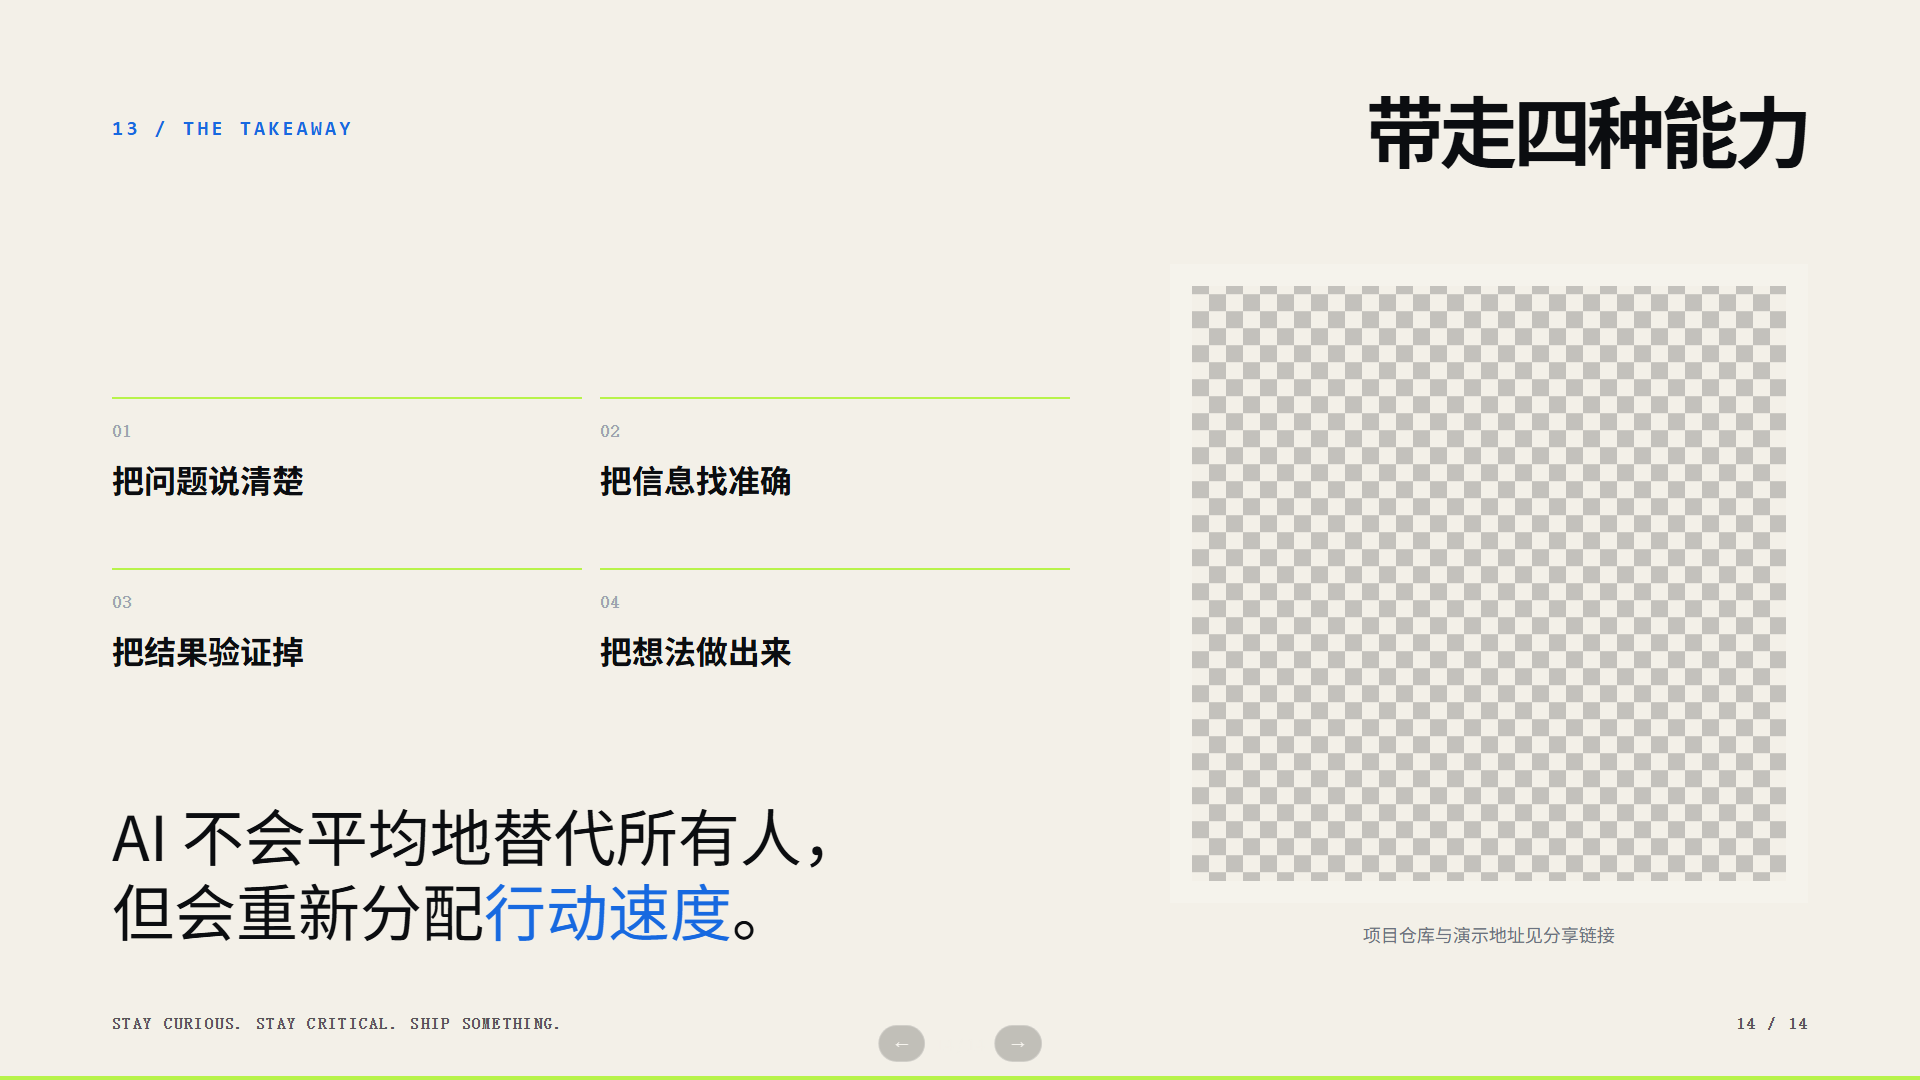
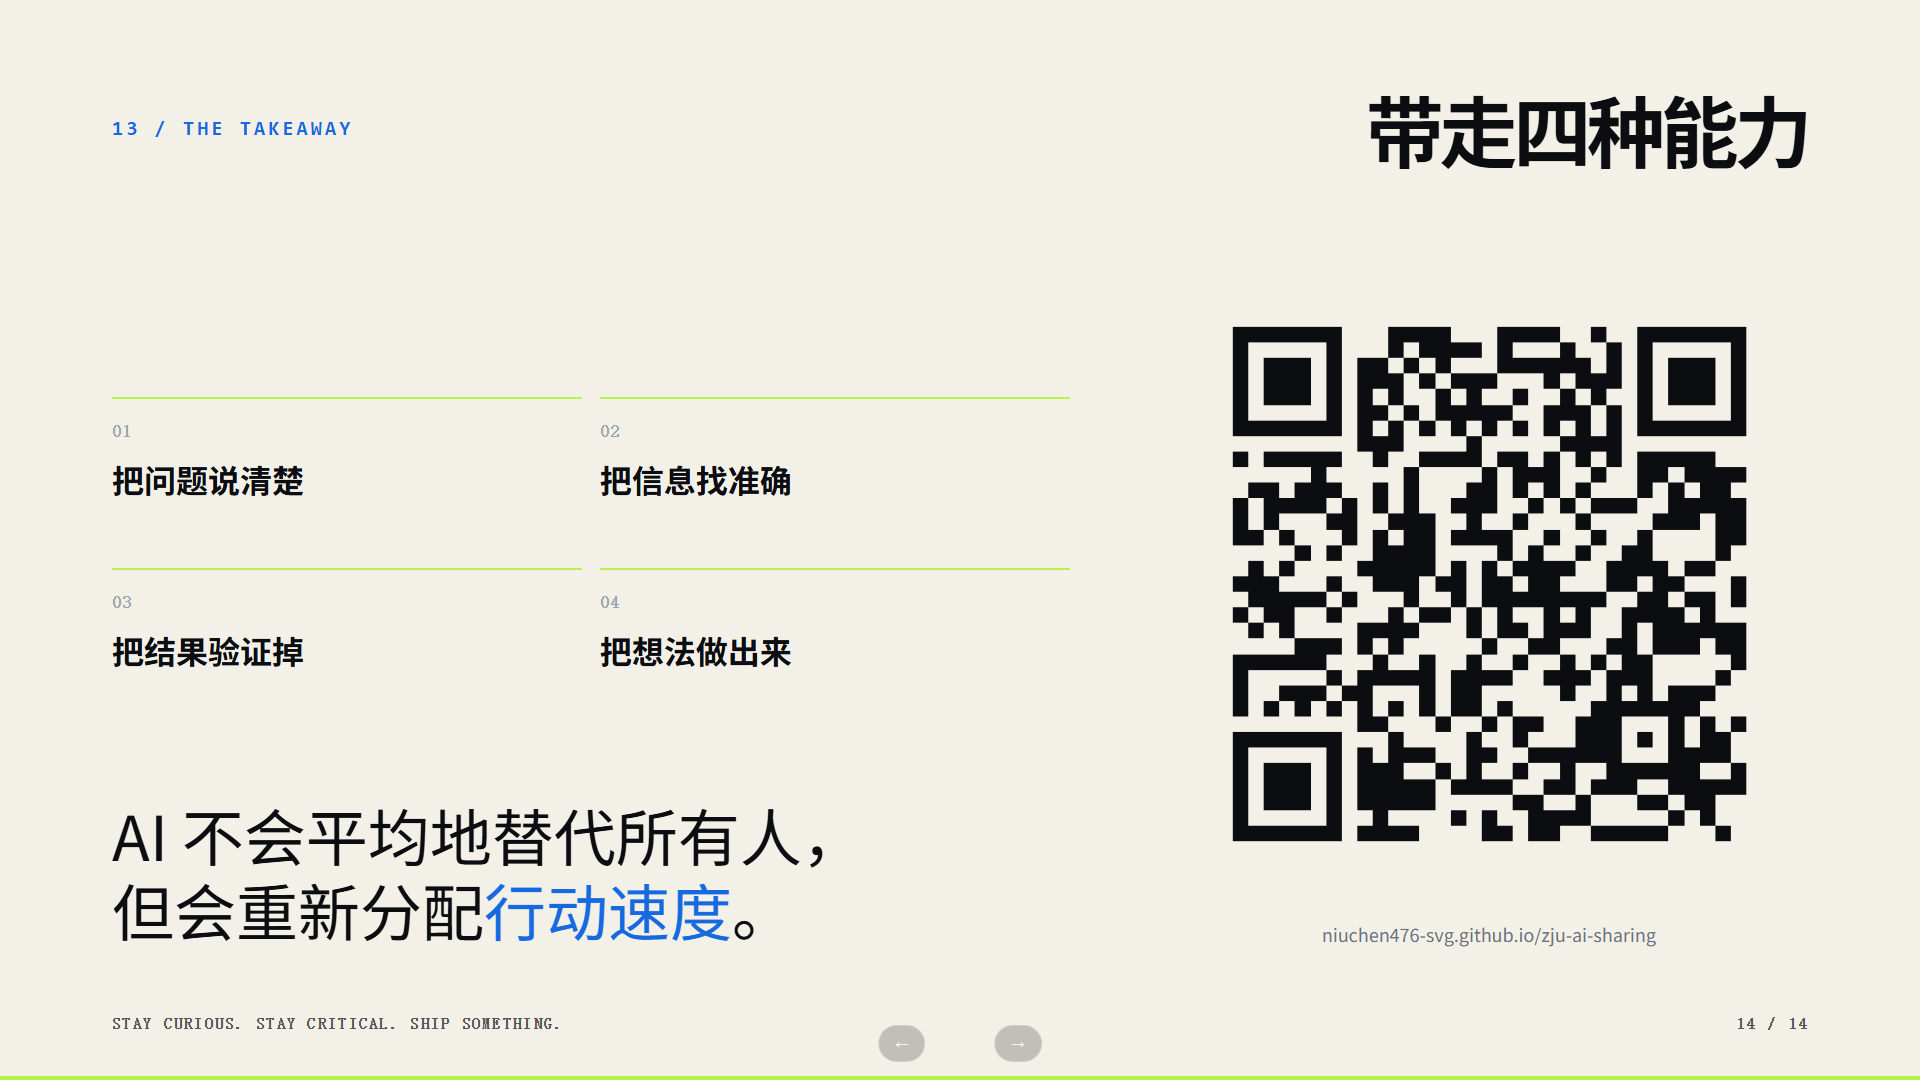
Add live Pages QR and complete visual QA

Changed region(s): [[0.625, 0.2444, 0.9375, 0.825], [0.6875, 0.8556, 0.875, 0.8861]]

diff --git a/index.html b/index.html
@@ -30,7 +30,7 @@
     .agentFlow{margin-top:70px;display:flex;align-items:center;justify-content:space-between}.agentNode{width:260px;height:260px;border-radius:50%;display:grid;place-items:center;text-align:center;border:1px solid rgba(255,255,255,.3);font-size:30px;font-weight:800}.agentNode.primary{background:var(--blue);border:none}.agentLine{height:2px;background:var(--green);flex:1;position:relative}.agentLine:after{content:"›";position:absolute;right:-4px;top:-24px;font-size:44px;color:var(--green)}.loop{margin-top:64px;text-align:center;font:700 24px ui-monospace,monospace;color:var(--green)}
     .disciplines{display:grid;grid-template-columns:repeat(3,1fr);gap:18px;margin-top:45px}.discipline{padding:28px;border-top:5px solid var(--blue);background:rgba(11,13,16,.04);min-height:150px}.discipline b{font-size:28px}.discipline p{font-size:21px;margin-top:14px;color:#49515c}
     .risk{display:grid;grid-template-columns:repeat(4,1fr);gap:18px;margin-top:72px}.risk div{border-top:7px solid var(--red);padding:32px 8px}.risk b{font-size:34px}.risk p{font-size:23px;margin-top:20px;color:#4b5159}.truth{font-size:62px;max-width:1500px;margin-top:76px;line-height:1.22}
-    .finalGrid{display:grid;grid-template-columns:1.2fr .8fr;gap:100px;align-items:end;height:720px}.abilities{display:grid;grid-template-columns:1fr 1fr;gap:18px}.ability{border-top:2px solid var(--green);padding:22px 0 48px}.ability b{font-size:32px}.ability span{display:block;font:700 17px ui-monospace,monospace;color:var(--muted);margin-bottom:16px}.qrfake{aspect-ratio:1;background:repeating-conic-gradient(#0b0d10 0 25%,#f3f0e8 0 50%) 0/34px 34px;border:22px solid white;opacity:.2}
+    .finalGrid{display:grid;grid-template-columns:1.2fr .8fr;gap:100px;align-items:end;height:720px}.abilities{display:grid;grid-template-columns:1fr 1fr;gap:18px}.ability{border-top:2px solid var(--green);padding:22px 0 48px}.ability b{font-size:32px}.ability span{display:block;font:700 17px ui-monospace,monospace;color:var(--muted);margin-bottom:16px}.qr{display:block;width:100%;aspect-ratio:1;object-fit:contain;background:var(--paper)}
     .controls{position:fixed;z-index:20;left:50%;bottom:18px;transform:translateX(-50%);display:flex;align-items:center;gap:10px;opacity:.25;transition:.2s}.controls:hover{opacity:1}.controls button,.editToggle,.exportBtn{border:1px solid rgba(255,255,255,.3);background:rgba(5,6,8,.82);color:white;border-radius:99px;padding:10px 16px;cursor:pointer}.progress{position:fixed;z-index:30;left:0;bottom:0;height:4px;background:var(--green);transition:width .3s}.edit-hotzone{position:fixed;z-index:40;left:0;top:0;width:160px;height:90px}.edit-panel{position:fixed;z-index:41;left:14px;top:14px;display:flex;gap:8px;opacity:0;pointer-events:none}.edit-hotzone:hover+.edit-panel,.edit-panel:hover,.editing .edit-panel{opacity:1;pointer-events:auto}[contenteditable=true]{outline:2px dashed var(--green);outline-offset:5px}
     @media(prefers-reduced-motion:reduce){.slide,.progress{transition:none}}
   </style>
@@ -49,7 +49,7 @@
   <section class="slide light" data-slide-id="full-stack" data-original-number="11" data-slide-title="前端后端数据库与部署"><div class="pad"><div class="topline"><span class="kicker blueText">10 / FULL STACK</span><h2 data-edit-id="stack-title">一个产品，四个世界</h2></div><div class="stack" data-qa-content><div class="layer"><span class="num">01 / SEE</span><h3>前端</h3><p>用户看到和操作的界面</p></div><div class="layer"><span class="num">02 / THINK</span><h3>后端</h3><p>规则、权限与业务逻辑</p></div><div class="layer"><span class="num">03 / REMEMBER</span><h3>数据库</h3><p>长期保存结构化信息</p></div><div class="layer"><span class="num">04 / SERVE</span><h3>部署</h3><p>让别人能从网络访问</p></div></div></div><div class="footer"><span>BROWSER → API → DATA → CLOUD</span><span>11 / 14</span></div></section>
   <section class="slide" data-slide-id="agent" data-original-number="12" data-slide-title="从聊天到 Agent"><div class="pad"><div class="topline"><span class="kicker">11 / AGENT</span><h2 data-edit-id="agent-title">从“回答”到“完成”</h2></div><div class="agentFlow" data-qa-content><div class="agentNode primary">目标</div><div class="agentLine"></div><div class="agentNode">计划</div><div class="agentLine"></div><div class="agentNode">调用工具</div><div class="agentLine"></div><div class="agentNode">检查结果</div><div class="agentLine"></div><div class="agentNode primary">交付</div></div><div class="loop">↺ 失败时：观察 → 修正 → 再执行　　关键节点：人类确认</div></div><div class="footer"><span>MODEL + TOOLS + MEMORY + FEEDBACK</span><span>12 / 14</span></div></section>
   <section class="slide light" data-slide-id="disciplines" data-original-number="13" data-slide-title="不同专业如何参与"><div class="pad"><div class="topline"><span class="kicker blueText">12 / EVERY MAJOR</span><h2 data-edit-id="disciplines-title">AI 不是计算机专业的独角戏</h2></div><div class="disciplines" data-qa-content><div class="discipline"><b>理科</b><p>建模、数据、假设与科学发现</p></div><div class="discipline"><b>工科</b><p>仿真、控制、优化与数字孪生</p></div><div class="discipline"><b>医学</b><p>影像、知识辅助与责任边界</p></div><div class="discipline"><b>人文社科</b><p>文本分析、调查与批判性判断</p></div><div class="discipline"><b>经管</b><p>研究、运营、决策与自动化</p></div><div class="discipline"><b>设计传媒</b><p>生成式创作、交互与叙事</p></div></div><p style="font-size:39px;margin-top:50px;font-weight:850">真正的优势 = <span class="blueText">专业知识</span> × <span class="blueText">问题意识</span> × <span class="blueText">AI 杠杆</span></p></div><div class="footer"><span>DOMAIN × JUDGMENT × AI</span><span>13 / 14</span></div></section>
-  <section class="slide light" data-slide-id="risk-and-future" data-original-number="14" data-slide-title="边界与未来能力"><div class="pad"><div class="topline"><span class="kicker blueText">13 / THE TAKEAWAY</span><h2 data-edit-id="future-title">带走四种能力</h2></div><div class="finalGrid" data-qa-content><div><div class="abilities"><div class="ability"><span>01</span><b>把问题说清楚</b></div><div class="ability"><span>02</span><b>把信息找准确</b></div><div class="ability"><span>03</span><b>把结果验证掉</b></div><div class="ability"><span>04</span><b>把想法做出来</b></div></div><p class="truth">AI 不会平均地替代所有人，<br>但会重新分配<span class="blueText">行动速度</span>。</p></div><div><div class="qrfake"></div><p style="font-size:18px;text-align:center;margin-top:18px;color:#6b7280">项目仓库与演示地址见分享链接</p></div></div></div><div class="footer"><span>STAY CURIOUS. STAY CRITICAL. SHIP SOMETHING.</span><span>14 / 14</span></div></section>
+  <section class="slide light" data-slide-id="risk-and-future" data-original-number="14" data-slide-title="边界与未来能力"><div class="pad"><div class="topline"><span class="kicker blueText">13 / THE TAKEAWAY</span><h2 data-edit-id="future-title">带走四种能力</h2></div><div class="finalGrid" data-qa-content><div><div class="abilities"><div class="ability"><span>01</span><b>把问题说清楚</b></div><div class="ability"><span>02</span><b>把信息找准确</b></div><div class="ability"><span>03</span><b>把结果验证掉</b></div><div class="ability"><span>04</span><b>把想法做出来</b></div></div><p class="truth">AI 不会平均地替代所有人，<br>但会重新分配<span class="blueText">行动速度</span>。</p></div><div><img class="qr" src="assets/pages-qr.png" alt="演示页面二维码"><p style="font-size:18px;text-align:center;margin-top:18px;color:#6b7280">niuchen476-svg.github.io/zju-ai-sharing</p></div></div></div><div class="footer"><span>STAY CURIOUS. STAY CRITICAL. SHIP SOMETHING.</span><span>14 / 14</span></div></section>
   </main></div>
   <div class="edit-hotzone"></div><div class="edit-panel"><button class="editToggle edit-toggle" aria-pressed="false">编辑</button><button class="exportBtn">导出 HTML</button></div>
   <div class="controls"><button id="prev">←</button><span id="counter" class="counter" data-slide-counter>01 / 14</span><button id="next">→</button></div><div class="progress" id="progress"></div>
